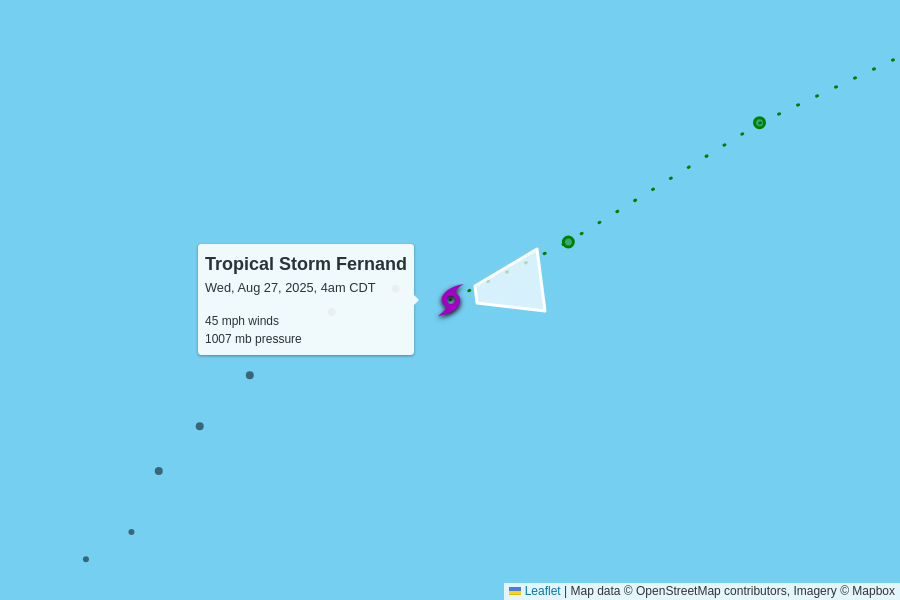
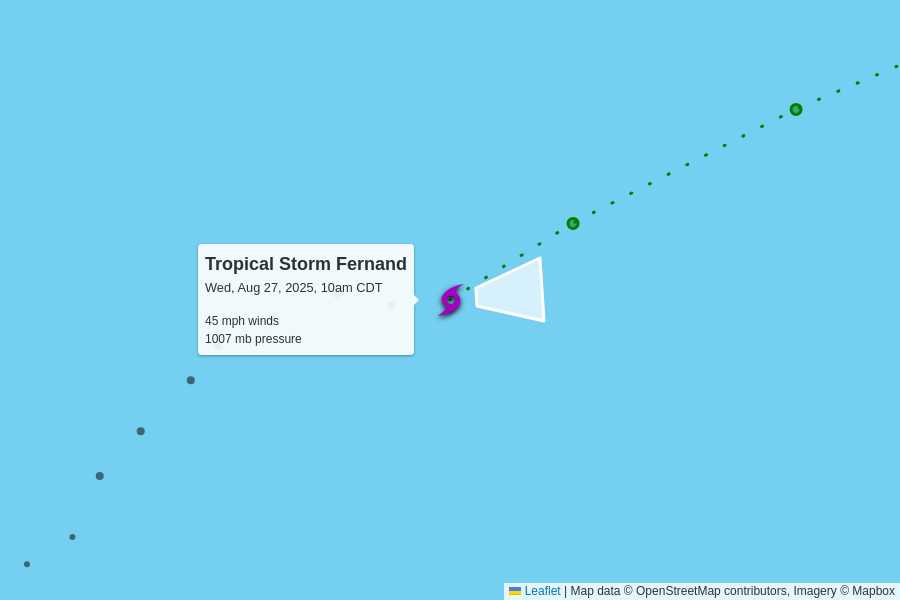
automatic update

diff --git a/docs/index.html b/docs/index.html
@@ -102,7 +102,7 @@
         <td colspan="6" class="storm category-0" >
           <h2>
             Tropical Storm Fernand
-            <p class="updated">last updated <span data-time>2025-08-27T09:00:00.000Z</span></p>
+            <p class="updated">last updated <span data-time>2025-08-27T15:00:00.000Z</span></p>
           </h2>
         </td>
       </tr>
@@ -122,7 +122,7 @@
         <td>
           12 mph to the east
           <br/>
-          <span style="display: inline-block; font-size: 1.5em; transform: rotate(80deg);">↑</span>
+          <span style="display: inline-block; font-size: 1.5em; transform: rotate(85deg);">↑</span>
         </td>
         <td><a href="https://raw.githubusercontent.com/mgwalker/atlantic-hurricanes/main/data/csv/AL062025.csv">AL062025.csv</a></td>
         <td><a href="https://www.nhc.noaa.gov/archive/2025/FERNAND.shtml?">NHC advisories</a></td>
